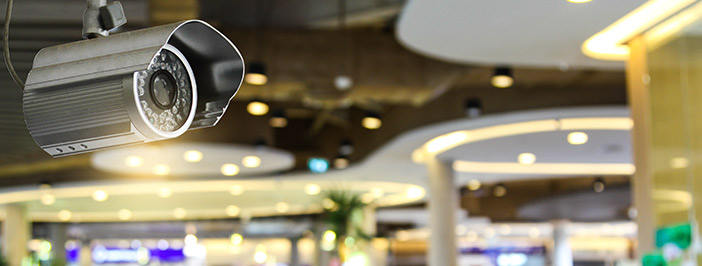
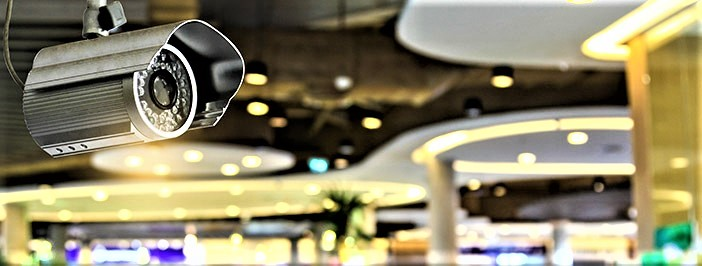
fixed some images

diff --git a/src/components/homePage/Carousal.jsx b/src/components/homePage/Carousal.jsx
@@ -3,7 +3,7 @@ import Carousel from "react-bootstrap/Carousel";
 
 import Carousal1 from "../../assets/homePage/01.jpg";
 import Carousal2 from "../../assets/homePage/02.jpg";
-import Carousal3 from "../../assets/homePage/03.jpg";
+import Carousal3 from "../../assets/homePage/03.png";
 
 const carouselContainer = {
   width: "100%",
